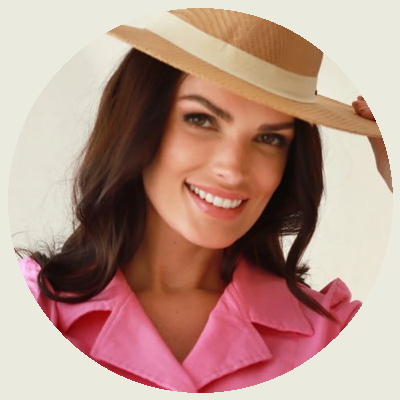
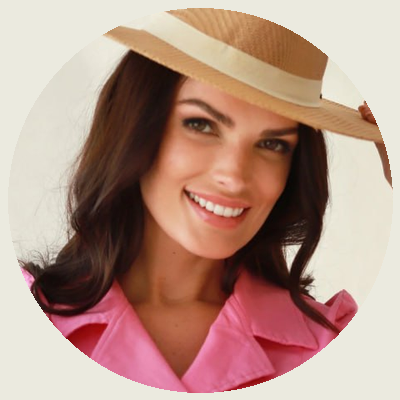
C19: circle3 = pink dress silueto foto + real hero (Lina studijoje)

diff --git a/previews/C19/index.html b/previews/C19/index.html
@@ -39,14 +39,9 @@
     </td>
   </tr>
 
-  <!-- HERO PLACEHOLDER (nuotrauka bus įdėta vėliau) -->
+  <!-- HERO IMAGE -->
   <tr><td style="padding:0;">
-    <table role="presentation" width="100%" cellpadding="0" cellspacing="0" border="0" style="background:#ddd6c4;">
-      <tr><td align="center" valign="middle" height="360" style="height:360px;border:1px dashed #8E7B5C;">
-        <div class="sans" style="font-size:12px;letter-spacing:0.24em;text-transform:uppercase;color:#8E7B5C;">HERO NUOTRAUKA</div>
-        <div class="sans" style="font-size:11px;letter-spacing:0.08em;color:#8b8578;padding-top:8px;">600 &times; 360 &middot; bus įdėta vėliau</div>
-      </td></tr>
-    </table>
+    <img src="https://cdn.jsdelivr.net/gh/elaiskai/lega-email-assets@main/heroes/c19-hero.png" width="600" alt="LEGA dizainerė studijoje" style="width:100%;height:auto;display:block;">
   </td></tr>
 
   <!-- DIVIDER -->